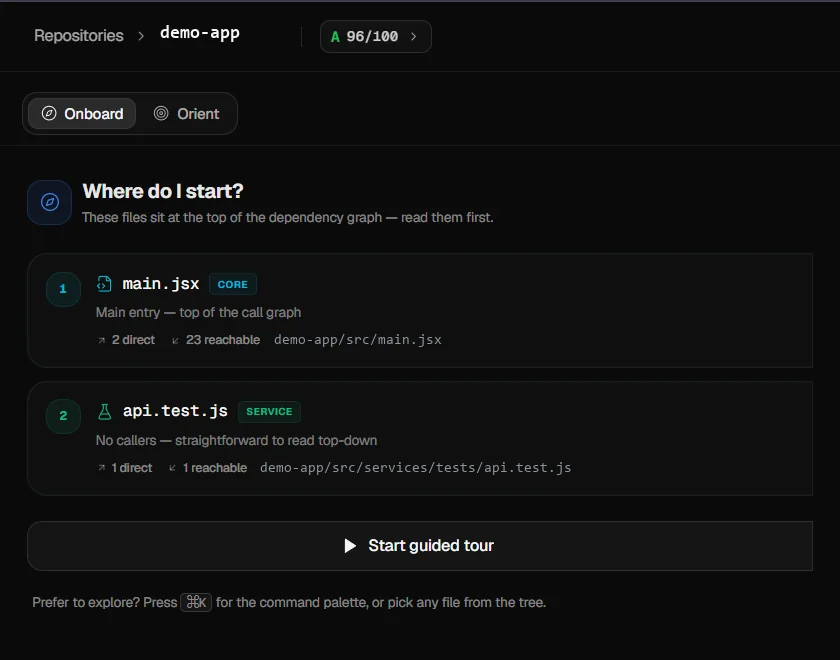
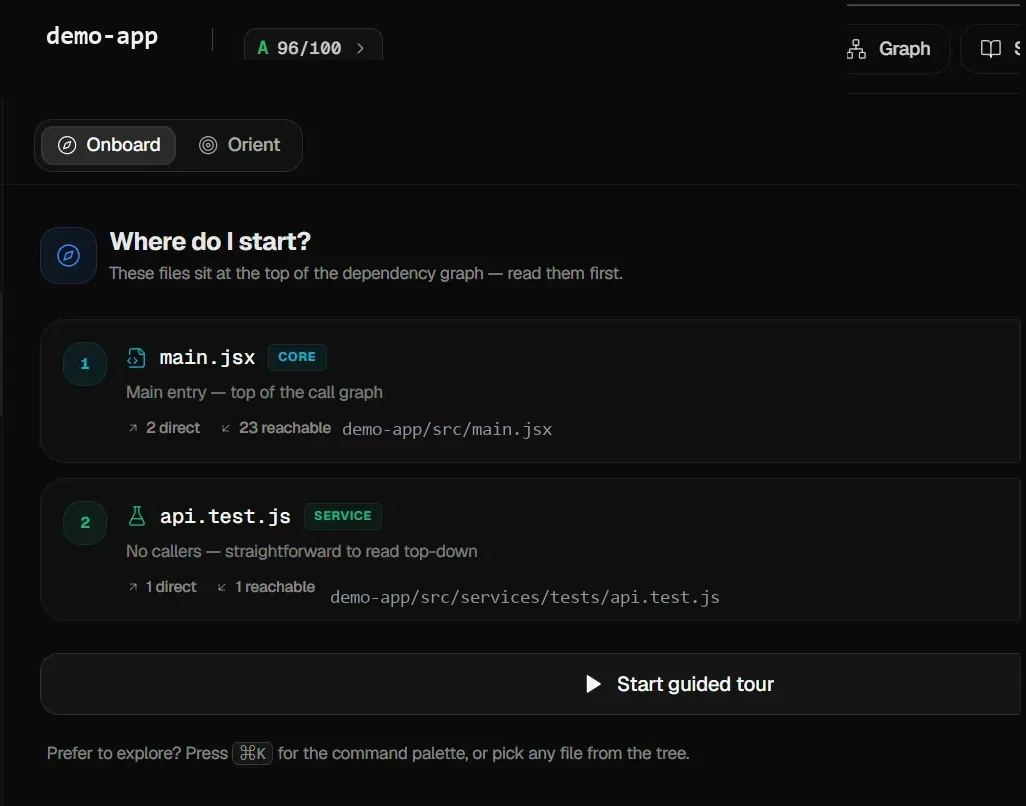
assets(hero): higher-res product image (1026x806), verified no upscaling
The file dropped in as a raw full-app screenshot (1912x830) still showing
the real repo name "RickyMortyApp", the Ricky-Morty/* file paths, and the
icon rail + tree - not safe to ship and wrong framing. Re-ran the crop +
neutralization pipeline at the higher resolution:
- cropped to the focused "Where do I start?" panel (dropped rail/tree)
- neutralized to demo-app (breadcrumb + both file paths)
- cleared the search box, kept the 96/100 grade badge and @mentor nav
- matched the prior ~1.27 aspect (redrew the card right borders) so the
  tilt/card composition is preserved

Verification (source vs rendered):
- natural size 1026x806; desktop display 518x412 -> NOT upscaled (CSS),
  and ~2x dense (1026 vs 1036 needed = 99%, retina-crisp)
- width/height attributes set to 1026x806 -> no CLS
- stacked window is full width (max <=1152px < 1026... capped by native),
  never upscaled; removed the old 800px anti-upscale cap
Raw screenshot removed from assets (never committed - real identity).

diff --git a/index.html b/index.html
@@ -232,7 +232,7 @@
     <figure class="lp-hero-shot">
       <div class="lp-hero-shot-glow" aria-hidden="true"></div>
       <div class="lp-hero-frame">
-        <img class="lp-hero-shot-img" src="/assets/hero-product.webp" width="840" height="660" loading="eager" fetchpriority="high" decoding="async" alt="Xolvyn onboarding view &mdash; a 'Where do I start?' panel listing the files to read first, with the demo-app repository and its A 96/100 security grade.">
+        <img class="lp-hero-shot-img" src="/assets/hero-product.webp" width="1026" height="806" loading="eager" fetchpriority="high" decoding="async" alt="Xolvyn onboarding view &mdash; a 'Where do I start?' panel listing the files to read first, with the demo-app repository and its A 96/100 security grade.">
       </div>
       <div class="lp-hero-finding" aria-hidden="true">
         <div class="finding-row">

diff --git a/styles.css b/styles.css
@@ -6635,9 +6635,9 @@ a.blog-card:hover {
   .lp-hero-cta { justify-content: center; }
   .lp-hero-trust { justify-content: center; }
   .lp-hero-shot { perspective: none; }
-  /* full width, but never wider than the asset's native 840px (no upscaling);
-     centered in the stacked column */
-  .lp-hero-frame { transform: none; width: 100%; max-width: 800px; margin-inline: auto; }
+  /* full width - the asset's native width (1340px) exceeds any stacked
+     display width, so it never upscales */
+  .lp-hero-frame { transform: none; width: 100%; }
   /* stacked full-width window has no side gutter for the card to float into
      without covering content, so it stays a desktop-split flourish */
   .lp-hero-finding { display: none; }
